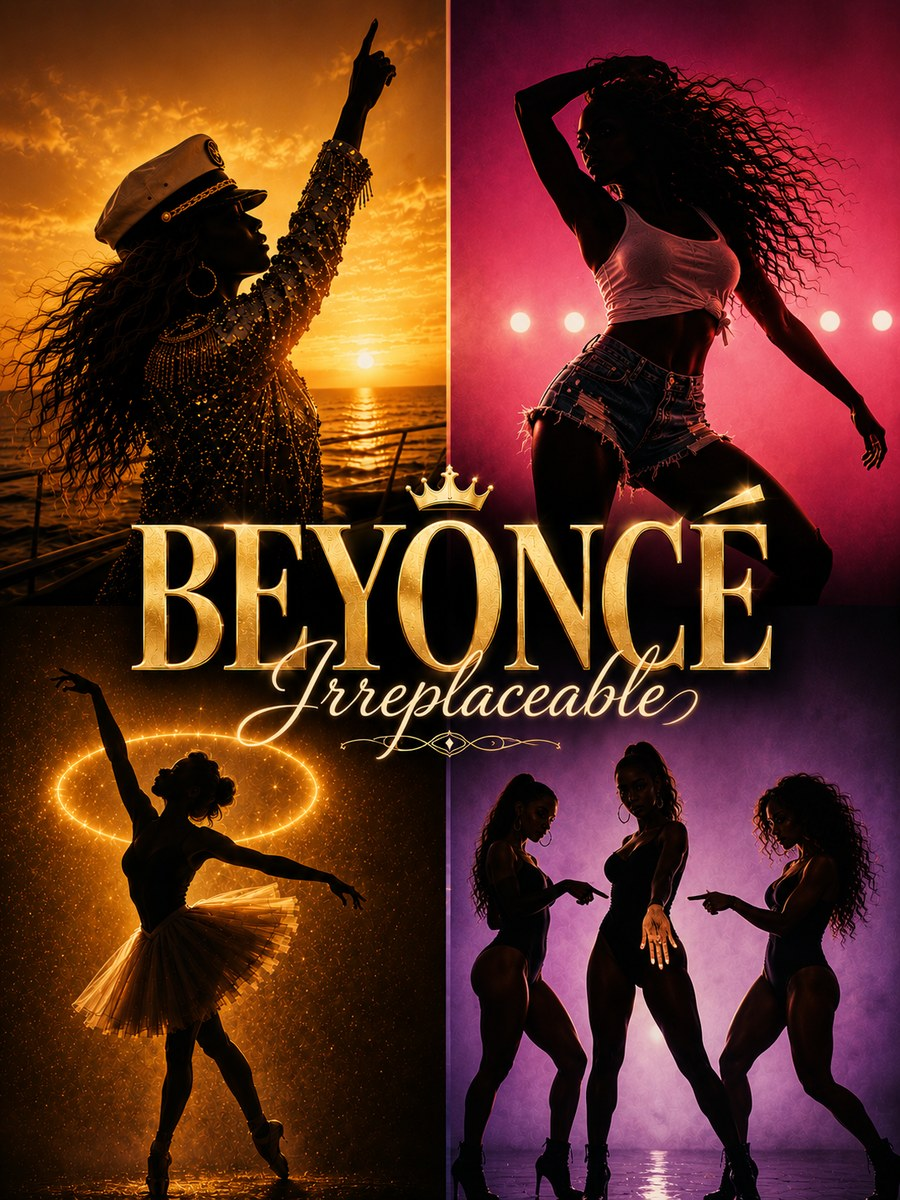
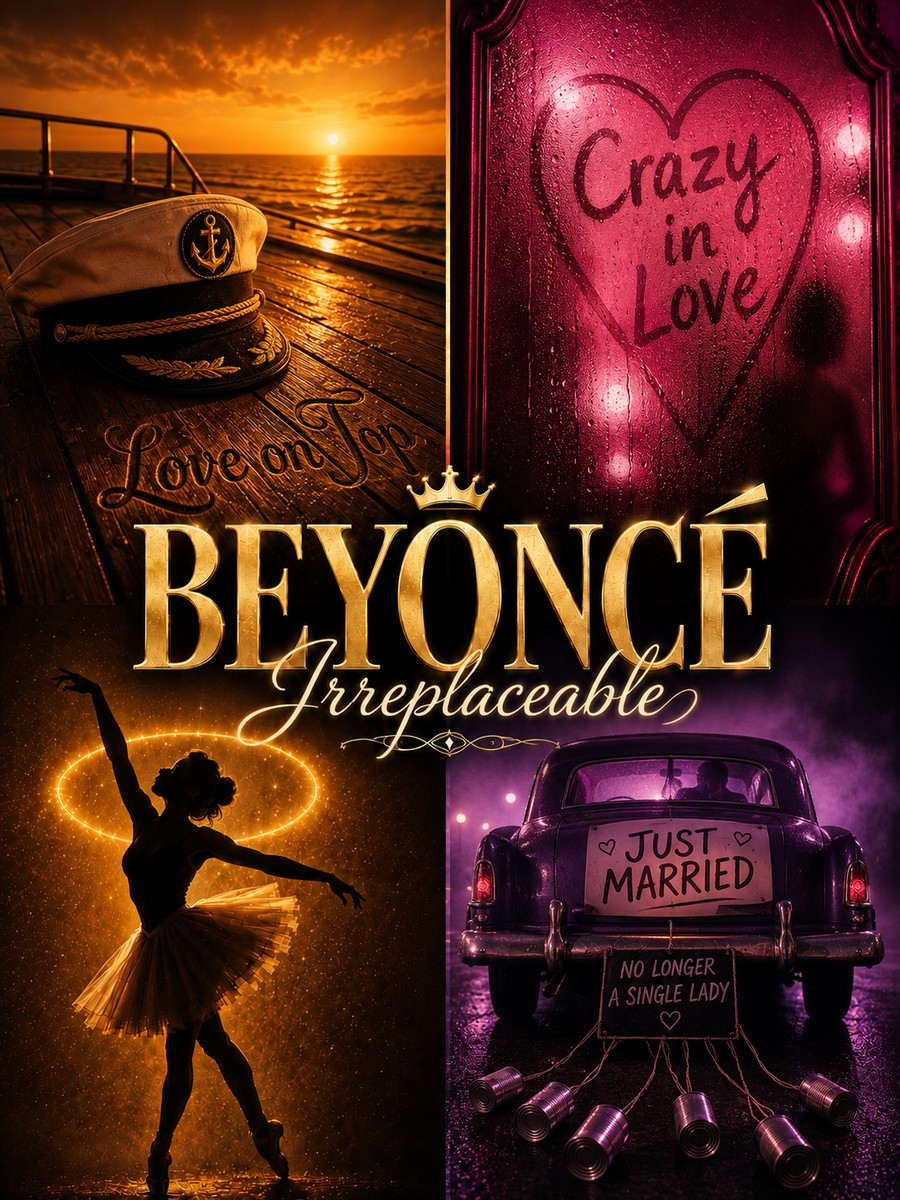
v247: refreshed One Direction and Beyonce posters
Two posters redrawn during the audit, converted from the 1086x1448 source to the
900x1200 spec. 542 KB and 338 KB, both inside the 200-650 KB band.

What actually changed, since it sets the rule for the ones still to come:

  ONE DIRECTION  the corner tile read "1D" - the band's own wordmark. Now reads
                 "Perfect", a song title. Nothing else in the image moved.
  BEYONCE        three of the four panels swapped a recognisable figure for an
                 object plus a song title: a captain's hat on a deck for "Love on
                 Top", a heart of lights for "Crazy in Love", a JUST MARRIED car
                 for "Single Ladies". The dancer silhouette stayed - it is a
                 silhouette, not a likeness.

Both moves follow the same rule, and it is a good one: no artist wordmark or
logo, no recognisable likeness; a prop and a song title carry the reference
instead. Song titles are not copyrightable and a hat is not anyone's face.

The service worker is cache-first for static assets and drops every old cache on
activate, so bumping CACHE is what actually ships new art to an installed app -
the tile <img> has no query string of its own.

Claude-Session: https://claude.ai/code/session_012avjdYG8yRCMZ3uJswRWwC

diff --git a/index.html b/index.html
@@ -911,7 +911,7 @@ function eraOf(v){ return ERA[v.id]||'neon'; }
    page arrives with ?open=, so the lookup returned '0' and every plate URL was busted
    with ?v=0 forever - an updated plate would never reach anyone who had opened that
    sheet once. Kept in step with the printed build tag by the release step. */
-var SFSBUILD='v246';
+var SFSBUILD='v247';
 var CARDART={"adele":{"o":"#F4A330"},"arianagrande":{"o":"#FFF6E0","l":1},"ate":{"o":"#DAA459"},"beatles":{"o":"#FFF6E0","l":1},"beyonce":{"o":"#FDB728"},"biggie":{"o":"#FDC472"},"billieeilish":{"o":"#B9C709"},"billyjoel":{"o":"#DBB17D"},"bonjovi":{"o":"#FFF6E0","l":1},"bowie":{"o":"#F7AF7C"},"brunomars":{"o":"#FEA928"},"carrieunderwood":{"o":"#D9B87A"},"ccr":{"o":"#F2C772"},"chrisstapleton":{"o":"#F2BA7D"},"codyjohnson":{"o":"#85C9EB"},"coldplay":{"o":"#E9BA87"},"dmb":{"o":"#2A1305"},"dualipa":{"o":"#A3ABC1"},"eagles":{"o":"#261C12"},"edsheeran":{"o":"#ECAB84"},"ellalangley":{"o":"#F1987E"},"eminem":{"o":"#D1B99F"},"faithhill":{"o":"#F3A63D"},"fleetwoodmac":{"o":"#BEC5C8"},"foo":{"o":"#F69F6D"},"fthc":{"o":"#3D3717"},"gratefuldead":{"o":"#FFF6E0","l":1},"greenday":{"o":"#CEB799"},"grunge90s":{"o":"#EFC973"},"harrystyles":{"o":"#F99B37"},"hendrix":{"o":"#FFF6E0","l":1},"jasonaldean":{"o":"#EAAE5F"},"jellyroll":{"o":"#301407"},"justintimberlake":{"o":"#B1C1D3"},"katyperry":{"o":"#3DC2D8"},"kennychesney":{"o":"#F6C587"},"kidstoybox":{"o":"#002848"},"ladygaga":{"o":"#FFBD46"},"laineywilson":{"o":"#FFF6E0","l":1},"ledzeppelin":{"o":"#E6AE57"},"lukebryan":{"o":"#332818"},"lukecombs":{"o":"#F19F31"},"maroon5":{"o":"#642F09"},"metallica":{"o":"#EABE95"},"morganwallen":{"o":"#DB9D94"},"mv_action":{"o":"#F0AD51"},"mv_animated":{"o":"#FFF6E0","l":1},"mv_comedy":{"o":"#FFF6E0","l":1},"mv_crime":{"o":"#F0AF37"},"mv_drama":{"o":"#DCA969"},"mv_fantasy":{"o":"#FAAA41"},"mv_horror":{"o":"#DBC27D"},"mv_romance":{"o":"#FFF6E0","l":1},"mv_scifi":{"o":"#26BDF5"},"mv_sports":{"o":"#FFF6E0","l":1},"mv_superhero":{"o":"#1C1B26"},"mv_war":{"o":"#1F150C"},"nirvana":{"o":"#CACACB"},"oasis":{"o":"#DDBA92"},"onedirection":{"o":"#F4A62D"},"pearljam":{"o":"#FFF6E0","l":1},"postmalone":{"o":"#FBA874"},"queen":{"o":"#F1BE78"},"rhcp":{"o":"#FFF6E0","l":1},"rihanna":{"o":"#BBAB97"},"selenagomez":{"o":"#FFF6E0","l":1},"shaboozey":{"o":"#DEB177"},"smashingpumpkins":{"o":"#BCAEC2"},"springsteen":{"o":"#E6A59C"},"stones":{"o":"#FFF6E0","l":1},"stp":{"o":"#FFF6E0","l":1},"summerbeach":{"o":"#FFF6E0","l":1},"taylorswift":{"o":"#D4A26D"},"thewho":{"o":"#F0C382"},"timmcgraw":{"o":"#251C0A"},"tompetty":{"o":"#FFF6E0","l":1},"tv_binge":{"o":"#D9B87A"},"tv_cartoon":{"o":"#171F6C"},"tv_gameshow":{"o":"#000B4D"},"tv_growingup":{"o":"#86B6F7"},"tv_oldschool":{"o":"#D9B87A"},"tv_scifi":{"o":"#66BBF7"},"tv_sitcom":{"o":"#C8AE93"},"u2":{"o":"#7EC0F2"},"zachbryan":{"o":"#191F15"}};
 function coverHTML(v,label){
  var e=eraOf(v);
@@ -1489,4 +1489,4 @@ brandBarState();
  setTimeout(go, 1500);
 })();
 </script>
-<div id="buildtag">v246</div><style>#buildtag{position:fixed;left:5px;bottom:3px;z-index:99999;font:700 9px/1 system-ui,sans-serif;color:rgba(255,255,255,.30);pointer-events:none;letter-spacing:.5px}</style></body></html>
+<div id="buildtag">v247</div><style>#buildtag{position:fixed;left:5px;bottom:3px;z-index:99999;font:700 9px/1 system-ui,sans-serif;color:rgba(255,255,255,.30);pointer-events:none;letter-spacing:.5px}</style></body></html>

diff --git a/sw.js b/sw.js
@@ -1,4 +1,4 @@
-var CACHE='sfs-v246';
+var CACHE='sfs-v247';
 /* IMPORTANT: do NOT precache the HTML documents. If the app shell is cached, an installed PWA
    can launch straight from cache and bypass Cloudflare Access. Keeping only static assets here
    forces every page launch to hit the network, so the Access login is always enforced. */
